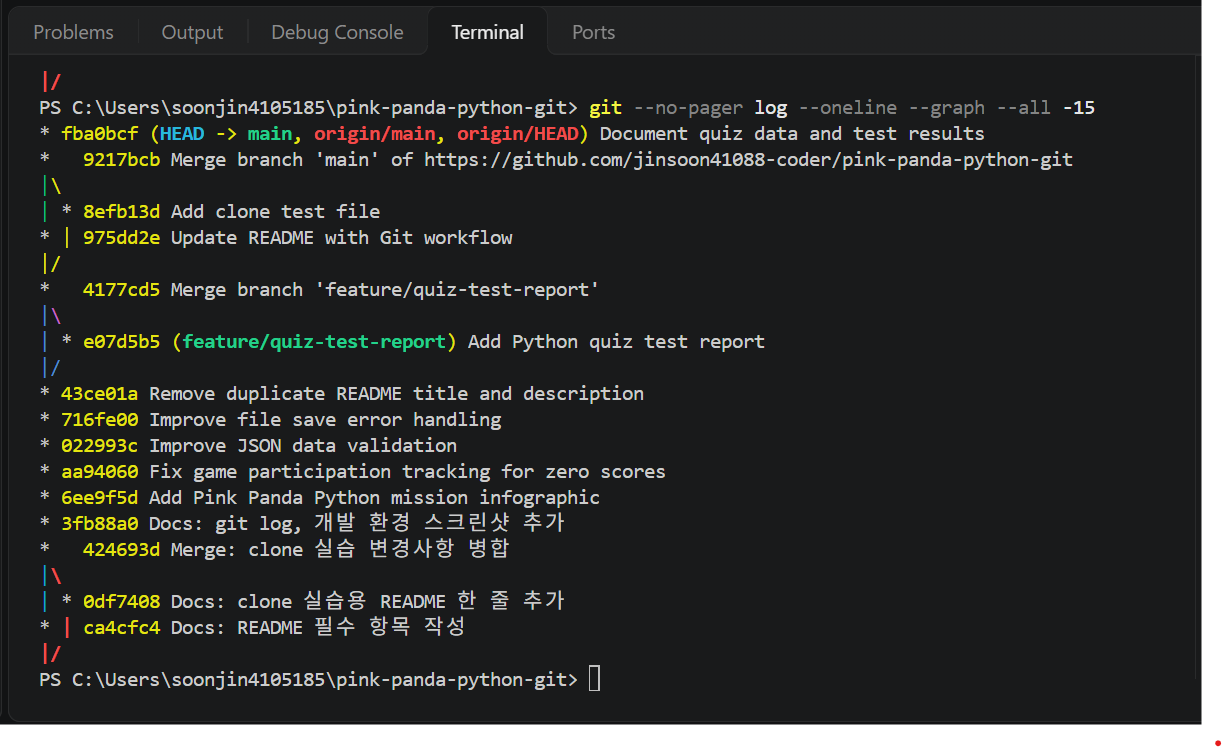
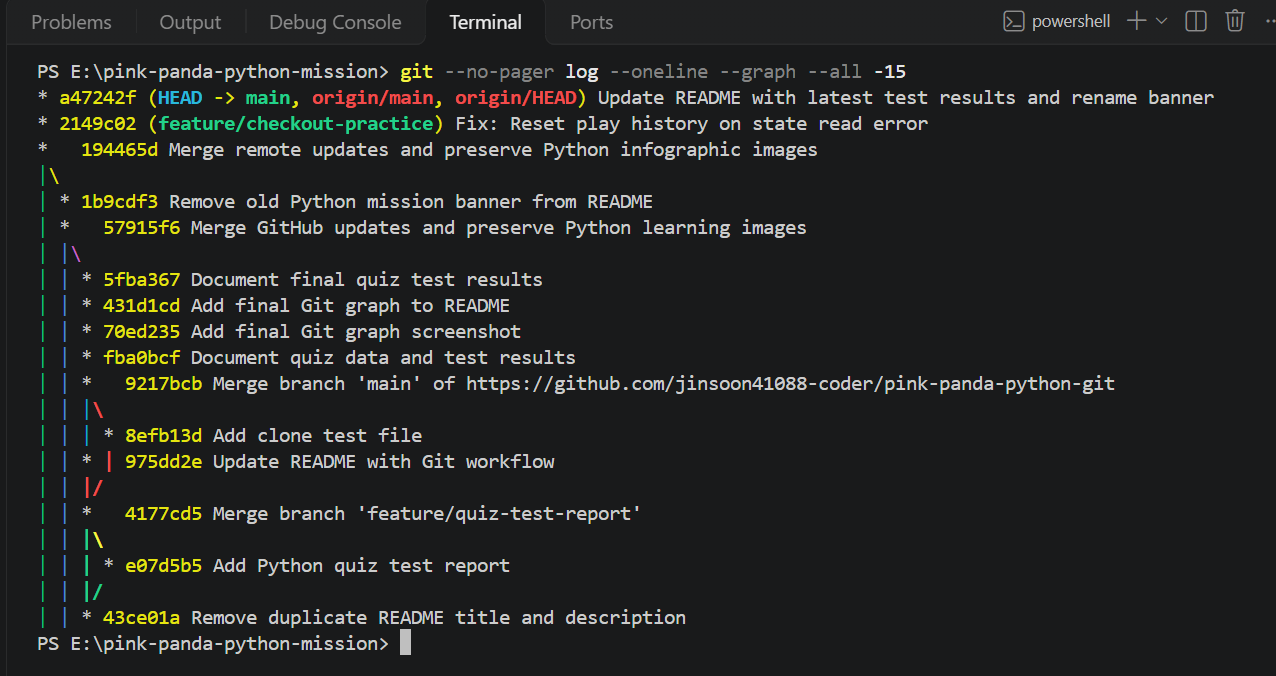
Update development environment and Git history screenshots

diff --git a/README.md b/README.md
@@ -117,6 +117,10 @@ pink-panda-python-git/
 
 ## 📸 실행 화면
 
+**개발 환경 확인**
+
+![개발 환경](screenshots/11-dev-env.png)
+
 **메뉴와 잘못된 입력 처리**
 
 ![메뉴](screenshots/05-menu.png)
